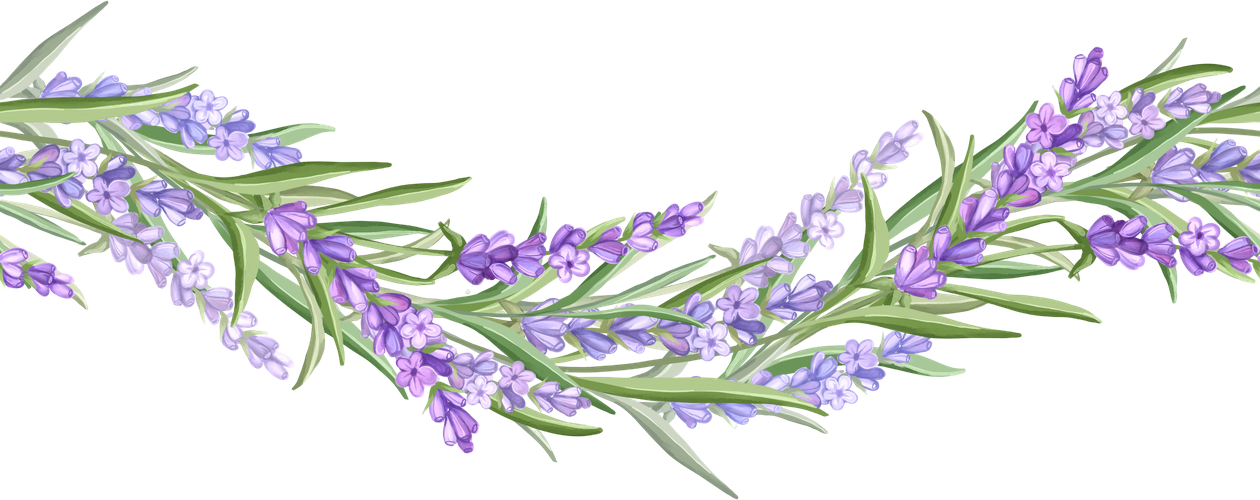
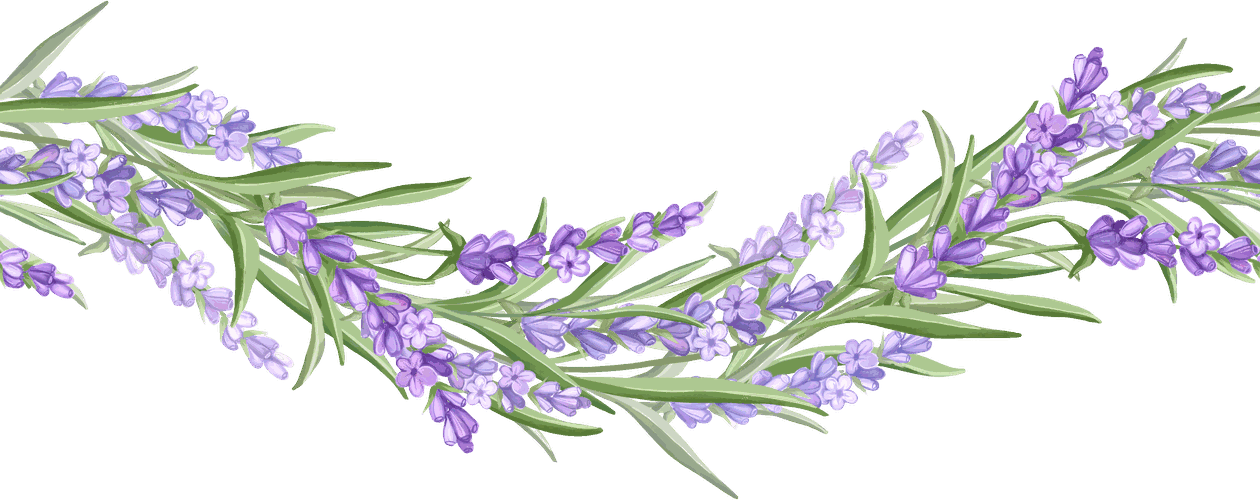
Frame the message, flank the page, plant the footer
- The message section sits in the floral frame. Built with border-image rather
  than a stretched background: the box has to grow with however many lines the
  text wraps to, and a background would squash the corner roses on wide screens
  and stretch them on narrow ones. The slice is 30% on both axes, so the
  left/right border runs 1.5x the top/bottom to match the 450x300 corner.
- The horizontal garland band is gone. In its place, two vertical runs down the
  page edges, from the message section to the footer. The column art is that
  same tile rotated 90deg, which is why it repeats seamlessly.
- The lavender field closes the page, flush to the bottom edge.
- Sections below the hero are wrapped in .edged, which pads them clear of the
  columns. The message section's own side padding went with it, since it was
  only squeezing the frame on phones.

Assets trimmed, scaled and quantized: frame 11MB -> 225KB, footer 1.8MB ->
222KB, column 136KB. Existing strip and heart requantized on the way past.

Changed region(s): [[0.3095, 0.72, 0.3405, 0.78], [0.8048, 0.24, 0.8357, 0.27]]

diff --git a/style.css b/style.css
@@ -365,7 +365,7 @@ a:hover { color: var(--gold-deep); }
   display: flex;
   align-items: center;
   justify-content: center;
-  padding: 110px 24px;
+  padding: 110px 0;
 }
 
 .message-wrap {
@@ -393,23 +393,66 @@ a:hover { color: var(--gold-deep); }
   text-wrap: pretty;
 }
 
-/* ---------- Lavender rule ---------- */
+/* ---------- Flanking lavender columns ---------- */
 
-/* The garland asset is a seamless horizontal tile: its left and right edges
-   are cut through the same stems, so `repeat-x` joins them invisibly. Sizing
-   is `auto 100%` so the band's height drives the tile width and the flowers
-   keep their proportions at any viewport. */
-.lavender-rule {
-  width: 100%;
-  height: clamp(86px, 11vw, 150px);
-  background-image: url("images/lavender-strip.png");
-  background-repeat: repeat-x;
-  background-position: center center;
-  background-size: auto 100%;
-  /* The two ends are mid-stem cuts, so they are faded out rather than left to
-     collide with the viewport edge. */
-  -webkit-mask-image: linear-gradient(90deg, transparent 0%, #000 9%, #000 91%, transparent 100%);
-  mask-image: linear-gradient(90deg, transparent 0%, #000 9%, #000 91%, transparent 100%);
+/* Everything below the hero sits between two lavender runs. The column art is
+   the horizontal garland tile rotated 90deg: it was seamless left-to-right, so
+   the rotation is seamless top-to-bottom and `repeat-y` joins it invisibly. */
+.edged {
+  position: relative;
+  /* Wider than the columns themselves, so nothing inside ever runs up against
+     the flowers. Sections centre themselves, so the symmetry is preserved. */
+  padding-inline: clamp(30px, 7.5vw, 100px);
+}
+
+.edged::before,
+.edged::after {
+  content: '';
+  position: absolute;
+  top: 0;
+  bottom: 0;
+  width: clamp(22px, 5.5vw, 76px);
+  background-image: url("images/lavender-column.png");
+  background-repeat: repeat-y;
+  background-size: 100% auto;
+  /* Both ends fade rather than stopping on a cut stem */
+  -webkit-mask-image: linear-gradient(180deg, transparent 0%, #000 4%, #000 96%, transparent 100%);
+  mask-image: linear-gradient(180deg, transparent 0%, #000 4%, #000 96%, transparent 100%);
+  pointer-events: none;
+  z-index: 0;
+}
+
+.edged::before { left: 0; }
+/* Mirrored so the two sides read as a matched pair rather than a repeat */
+.edged::after { right: 0; transform: scaleX(-1); }
+
+/* The columns are positioned, so without this they would paint over the
+   sections, which are not. */
+.edged > * {
+  position: relative;
+  z-index: 1;
+}
+
+/* ---------- Floral frame ---------- */
+
+/* `border-image` rather than a background: the frame has to hold its corner
+   clusters at a fixed thickness while the box grows with however many lines
+   the message wraps to. A stretched background would squash the roses on wide
+   screens and stretch them on narrow ones.
+   The slice is 30% on both axes, so each corner is 450x300 of the source. The
+   left/right border is kept at 1.5x the top/bottom to match that 450:300, or
+   the corners would render out of proportion. */
+.framed {
+  width: min(880px, 100%);
+  border-style: solid;
+  border-color: transparent;
+  border-width: clamp(32px, 8vw, 92px) clamp(48px, 12vw, 138px);
+  border-image-source: url("images/frame.png");
+  border-image-slice: 30% 30%;
+  border-image-repeat: round;
+  padding: clamp(6px, 2vw, 28px);
+  display: flex;
+  justify-content: center;
 }
 
 /* ---------- Calendar ---------- */
@@ -700,7 +743,7 @@ a:hover { color: var(--gold-deep); }
 /* ---------- Footer ---------- */
 
 .site-footer {
-  padding: 20px 24px 90px;
+  padding: 20px 24px 40px;
   display: flex;
   flex-direction: column;
   align-items: center;
@@ -721,4 +764,17 @@ a:hover { color: var(--gold-deep); }
   font-size: clamp(26px, 3.6vw, 40px);
   line-height: 1.25;
   color: var(--ink);
+}
+
+/* ---------- Footer lavender ---------- */
+
+/* A field the page ends in. Same seamless-tile trick as the columns, anchored
+   to the bottom so the stems are always rooted at the page edge. */
+.footer-lavender {
+  width: 100%;
+  height: clamp(120px, 17vw, 240px);
+  background-image: url("images/footer-lavender.png");
+  background-repeat: repeat-x;
+  background-position: bottom center;
+  background-size: auto 100%;
 }

diff --git a/index.html b/index.html
@@ -52,7 +52,10 @@
   <div class="tap-hint-solo" id="tapHint">tap the seal</div>
 </section>
 
+<div class="edged">
+
 <section class="message">
+  <div class="framed">
   <div class="message-wrap">
     <div class="message-title">Dear family &amp; friends</div>
     <p class="message-text">As we step into this new chapter, it would mean so much to have you by our side on our special day.</p>
@@ -64,9 +67,8 @@
       <circle cx="114" cy="10" r="2.4" fill="#C6B7E2"></circle>
     </svg>
   </div>
+  </div>
 </section>
-
-<div class="lavender-rule" role="presentation"></div>
 
 <section class="calendar">
   <div class="eyebrow eyebrow--lg">October 2026</div>
@@ -163,6 +165,10 @@
   <div class="paw-row" id="pawRow"></div>
   <div class="footer-names">Malek &amp; Eia</div>
 </footer>
+
+</div><!-- /edged -->
+
+<div class="footer-lavender" role="presentation"></div>
 
 </div>
 <script src="script.js"></script>
